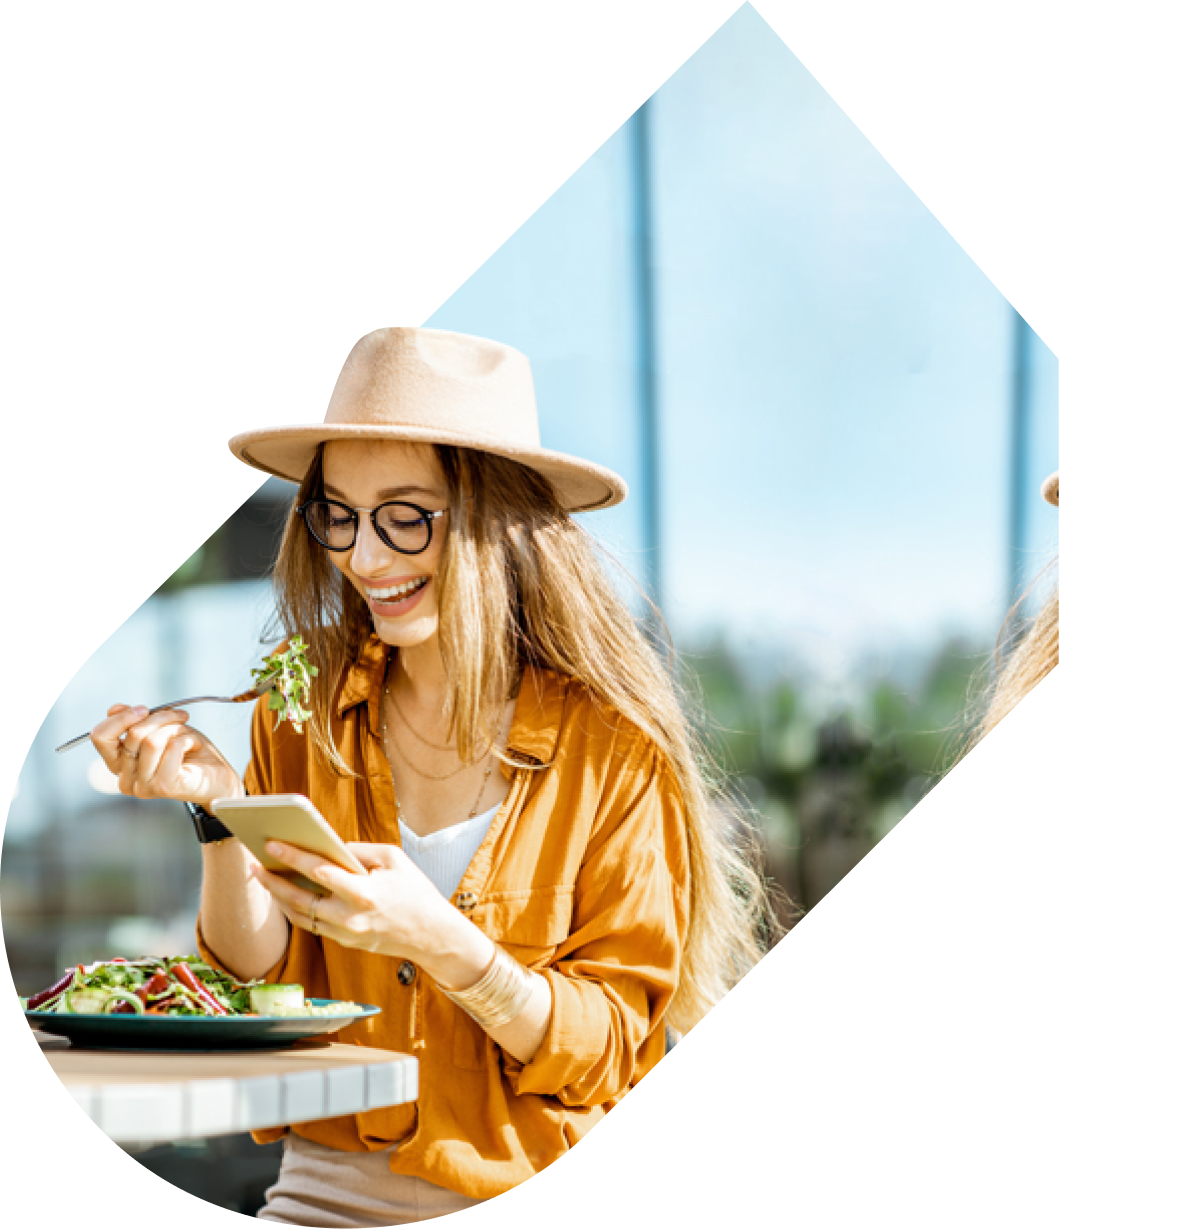
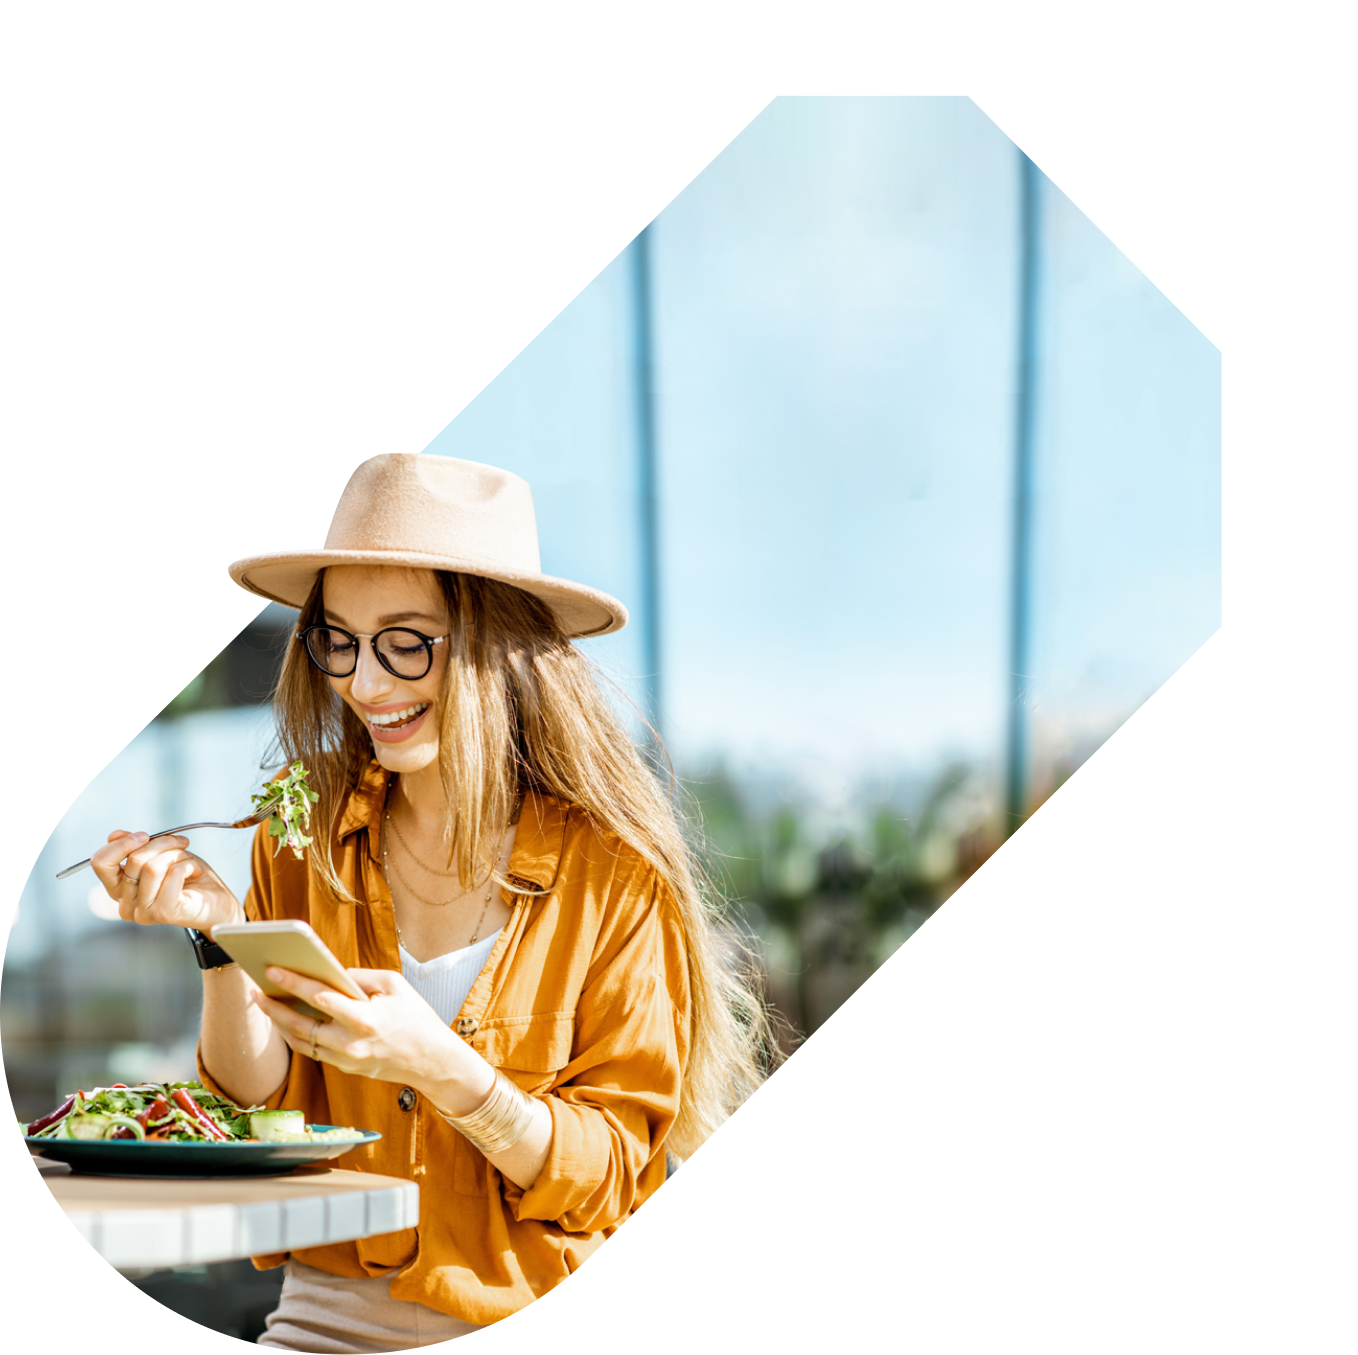
WIP Hero Image responsive

diff --git a/index.html b/index.html
@@ -78,22 +78,13 @@
           </h1>
           <p class="text-body-1">
             VICA te permite administrar los pedidos y pagos en mesa y take away,
-            brindando la mejor experiencia de compra en tu establecimiento.
+            <br class="br--1280">brindando la mejor experiencia de compra en tu establecimiento.
           </p>
           <a href="#" class="btn btn--l btn--filled">Comenzar gratis ahora</a>
         </div>
         <div class="hero-image">
           <div id="hero-tube-png"></div>
-          <img
-            src="assets/img/HeroMobile.png"
-            id="hero-mobile-img"
-            alt="Chica sonriendo, comiendo y mirando su celular, escaneando el código QR de VICA"
-          />
-          <img
-            src="assets/img/Hero1280.png"
-            id="hero-1280-img"
-            alt="Chica sonriendo, comiendo y mirando su celular, escaneando el código QR de VICA"
-          />
+          <div id="hero-photo-png"></div>
           <div id="hero-tent-png"></div>
         </div>
       </section>
@@ -381,8 +372,8 @@
       <section class="testimonials">
         <div class="testimonials-head container-xs text--center flow-content">
           <h3>
-            Sé parte de los establecimientos que <br class="br--1280" />ya se
-            digitalizaron junto a Vica.<br class="br--1280" />
+            Sé parte de los establecimientos que <br class="br--750" />ya se
+            digitalizaron junto a Vica.<br class="br--750" />
             <span class="text--orange">¡Sumate vos también!</span>
           </h3>
           <a href="#" class="btn btn--block">Registrá tu establecimiento</a>
@@ -479,25 +470,6 @@
       </div>
     </footer>
 
-    <script>
-      $(document).ready(function () {
-        $("#features-carousel").owlCarousel({
-          margin: 32,
-          nav: false,
-          responsiveClass: true,
-          responsive: {
-            0: {
-              items: 1,
-              stagePadding: 50,
-            },
-            750: {
-              items: 2,
-              stagePadding: 50,
-            },
-          },
-        });
-      });
-    </script>
 
     <script type="module">
       import { tns } from "./js/tiny-slider.js";
@@ -541,22 +513,22 @@
         fixedWidth: 260,
         slideBy: "page",
         navAsThumbnails: true,
-        responsive: {
-          1280: {
-            disable: true,
-          },
-        },
       });
 
       var featuresSlider1280 = tns({
         container: ".features-slider-1280",
-        items: 2,
+        items: 1,
         mode: "gallery",
         navPosition: "bottom",
         gutter: 30,
         animateIn: "animate__fadeInRight",
         animateOut: "animate__fadeOut",
         controlsContainer: ".features-slider-1280-buttons",
+        responsive: {
+          1030: {
+            items: 2,
+          }
+        }
       });
     </script>
   </body>

diff --git a/styles/index.css b/styles/index.css
@@ -74,7 +74,6 @@ p {
 h1 {
   font-weight: 400;
   font-size: clamp(2.125rem, 10vw, 5.375rem);
-  letter-spacing: 0.0156em;
 }
 
 h2 {
@@ -130,6 +129,10 @@ h6 {
 }
 
 @media (min-width: 750px) {
+  h1 {
+    font-weight: 400;
+    font-size: clamp(2.125rem, 6vw, 5.375rem);
+  }
   .text-caption {
     font-weight: 400;
     font-size: 0.875rem;
@@ -163,7 +166,7 @@ h6 {
   margin: var(--spacer) 0 0 0;
 }
 
-.br--1280 {
+.br--750, .br--1280 {
   display: none;
 }
 
@@ -190,9 +193,11 @@ h6 {
   }
 
   .br--750 {
-    display: none;
+    display: inline;
   }
+}
 
+@media (min-width: 1100px) {
   .br--1280 {
     display: inline;
   }
@@ -334,24 +339,37 @@ header {
   align-self: flex-end;
   margin-top: 0;
   position: relative;
+  width: 100%;
+}
+
+#hero-photo-png {
+  width: 80%;
+  height: 100vw;
+  margin-left: auto;
+  background-image: url(../assets/img/HeroImage.png);
+  background-repeat: no-repeat;
+  background-size: cover;
+  background-position: left 0 top calc(-90px + 5vh);
 }
 
 #hero-tube-png {
   position: absolute;
+  width: 75%;
+  height: 50vw;
+  left: 20%;
   background-image: url(../assets/img/tube.png);
-  background-position: left 20px bottom 250px;
   background-repeat: no-repeat;
-  width: 100%;
-  height: 100%;
+  background-size: 150%;
+  background-position: left 0 bottom 0;
   z-index: -1;
 }
 
 #hero-tent-png {
   position: absolute;
-  width: 12rem;
-  height: 12rem;
-  bottom: 3vw;
-  left: -80px;
+  width: 30vw;
+  height: 30vw;
+  bottom: calc(6% + 3vh);
+  left: 5vw;
   background-image: url(../assets/img/Tent.png);
   background-position: center;
   background-repeat: no-repeat;
@@ -359,26 +377,41 @@ header {
   z-index: 1;
 }
 
-#hero-1280-img {
-  display: none;
-}
+/* @media (max-width:900px) and (min-width:400px) */
 
 @media (min-width: 750px) {
   .hero {
     padding-top: 50px;
     align-items: center;
+    justify-content: space-between;
   }
   .hero-content {
-    padding: 100px 0 0 100px;
+    padding: 100px 0 0 10vw;
+    width: 65%;
   }
   .hero-image {
-    width: 50%;
+    width: 35%;
   }
-  #hero-1280-img {
-    display: block;
+  #hero-photo-png {
+    width: 100%;
+    height: 50vw;
+    margin-left: 0;
+    background-position: left 0 bottom 0;
+    background-size: 170%;
   }
-  #hero-mobile-img {
-    display: none;
+  
+  #hero-tube-png {
+    height: 25vw;
+    left: 5%;
+    background-size: 250%;
+  }
+  
+  #hero-tent-png {
+    
+    width: 15vw;
+    height: 15vw;
+    bottom: 7%;
+    left: -6vw;
   }
 }
 /* #endregion */

diff --git a/js/index.js b/js/index.js
@@ -18,9 +18,8 @@ function heroAnimation() {
     document.querySelector(".hero-content").style.visibility = "visible";
     document.querySelector(".hero-content").classList.add("animate__animated", "animate__fadeInDown");
     document.querySelector(".hero-image").style.visibility = "visible";
-    /* document.querySelector(".hero-image").classList.add("animate__animated", "animate__fadeInTopRight"); */
     document.querySelector("#hero-tube-png").classList.add("animate__animated", "animate__fadeInTopRight");
-    document.querySelector("#hero-1280-img").classList.add("animate__animated", "animate__fadeInTopRight", "animate__delay-2s");
+    document.querySelector("#hero-photo-png").classList.add("animate__animated", "animate__fadeInTopRight", "animate__delay-2s");
     document.querySelector("#hero-tent-png").classList.add("animate__animated", "animate__fadeInRight", "animate__delay-3s");
 }
 
